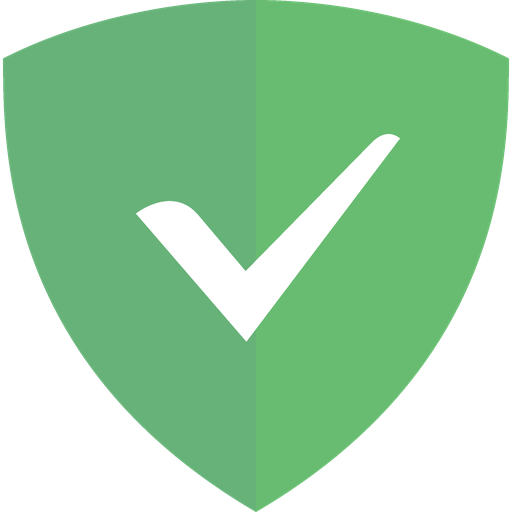
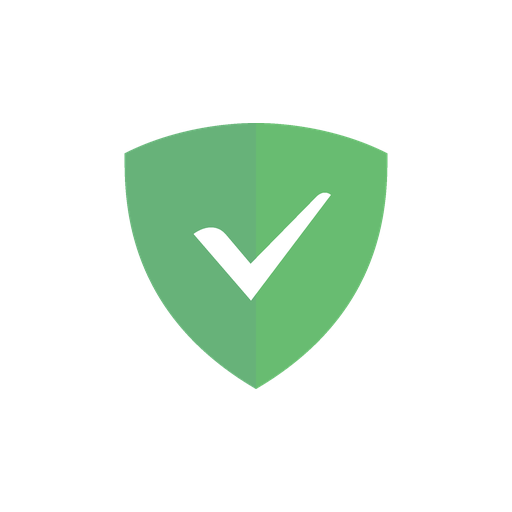
fix(android): 缩小 AdGuard 图标比例，与默认图标保持一致
- 自适应前景按可见遮罩 52% 的比例缩放盾牌，不再铺满 64dp 前景层
- 生成脚本支持可配置缩放，设置页预览改为白底圆角样式以贴近桌面效果

diff --git a/desktop/toolbox/core/adguard_launcher_export.py b/desktop/toolbox/core/adguard_launcher_export.py
@@ -26,7 +26,7 @@ import os
 import re
 import sys
 
-from PIL import Image
+from PIL import Image, ImageDraw
 
 try:  # as a package module
     from . import vector_raster as vr
@@ -53,10 +53,15 @@ ANDROID_DENSITIES = (
 # The SVG's own coordinate system.
 VIEW_BOX = (0.0, 0.0, 64.0, 64.0)
 
-# Adaptive icon foreground: the 108dp layer's guaranteed-visible circle is 66dp wide centred, so a
-# 64dp logo translated by 22 on each side (22..86) stays inside it under every OEM mask.
+# Adaptive icon foreground. The system crops the 108dp layer to roughly the central 72dp mask, so
+# the logo must be sized against that visible edge. The default DITING icon's solid artwork fills
+# about half of the mask; the AdGuard shield is a solid shape, so matching that ratio (rather than
+# filling the whole 64dp-of-108 foreground) keeps the two icons visually consistent.
 FOREGROUND_ARTBOARD = 108.0
-FOREGROUND_LOGO_SIDE = 64.0
+ICON_MASK_EDGE = 72.0  # visible diameter after the launcher mask, in layer units
+LOGO_RATIO = 0.52  # shield bounding box / visible edge
+FOREGROUND_LOGO_SIDE = ICON_MASK_EDGE * LOGO_RATIO
+FOREGROUND_SCALE = FOREGROUND_LOGO_SIDE / 64.0
 FOREGROUND_OFFSET = (FOREGROUND_ARTBOARD - FOREGROUND_LOGO_SIDE) / 2.0
 
 _SHAPES: list | None = None
@@ -123,6 +128,26 @@ def render(size: int, supersample: int = 4) -> Image.Image:
     return vr.render(load_shapes(), size, size, VIEW_BOX, supersample=supersample)
 
 
+def compose_preview(size: int = 512) -> Image.Image:
+    """Square preview that mimics the launcher result: white rounded plate + centred shield.
+
+    The shield is drawn at the same visual ratio as the adaptive icon so the settings thumbnail
+    matches what users see on the home screen.
+    """
+    plate = Image.new("RGBA", (size, size), (255, 255, 255, 255))
+    mask = Image.new("L", (size, size), 0)
+    radius = int(round(size * 0.22))
+    ImageDraw.Draw(mask).rounded_rectangle(
+        [0, 0, size - 1, size - 1], radius=radius, fill=255
+    )
+    plate.putalpha(mask)
+
+    logo_side = int(round(size * LOGO_RATIO))
+    logo = render(logo_side)
+    plate.alpha_composite(logo, ((size - logo.width) // 2, (size - logo.height) // 2))
+    return plate
+
+
 def foreground_vector_xml() -> str:
     """The adaptive-icon foreground as a resolution-independent VectorDrawable (108dp artboard)."""
     lines = [
@@ -135,7 +160,8 @@ def foreground_vector_xml() -> str:
         f'    android:height="{FOREGROUND_ARTBOARD:g}dp"',
         f'    android:viewportWidth="{FOREGROUND_ARTBOARD:g}"',
         f'    android:viewportHeight="{FOREGROUND_ARTBOARD:g}">',
-        f'    <group android:translateX="{FOREGROUND_OFFSET:g}" android:translateY="{FOREGROUND_OFFSET:g}">',
+        f'    <group android:scaleX="{FOREGROUND_SCALE:g}" android:scaleY="{FOREGROUND_SCALE:g}"',
+        f'        android:translateX="{FOREGROUND_OFFSET:g}" android:translateY="{FOREGROUND_OFFSET:g}">',
     ]
     for shape in load_shapes():
         lines.append(
@@ -216,7 +242,7 @@ def export_all(log=print) -> list:
     # 3. In-app preview thumbnail for the appearance page.
     preview = os.path.join(SHARED_DIR, "assets", "images", "icon_adguard.png")
     os.makedirs(os.path.dirname(preview), exist_ok=True)
-    render(512).save(preview, "PNG", optimize=True)
+    compose_preview(512).save(preview, "PNG", optimize=True)
     files.append(preview)
     log(f"PNG 512x512: {preview}")
 
@@ -231,10 +257,7 @@ def main() -> int:
     args = parser.parse_args()
 
     if args.preview:
-        canvas = Image.new("RGBA", (512, 512), (255, 255, 255, 255))
-        icon = render(512)
-        canvas.alpha_composite(icon)
-        canvas.save(args.preview, "PNG")
+        compose_preview(512).save(args.preview, "PNG")
         print(f"预览已写入 {args.preview}")
         return 0
 
